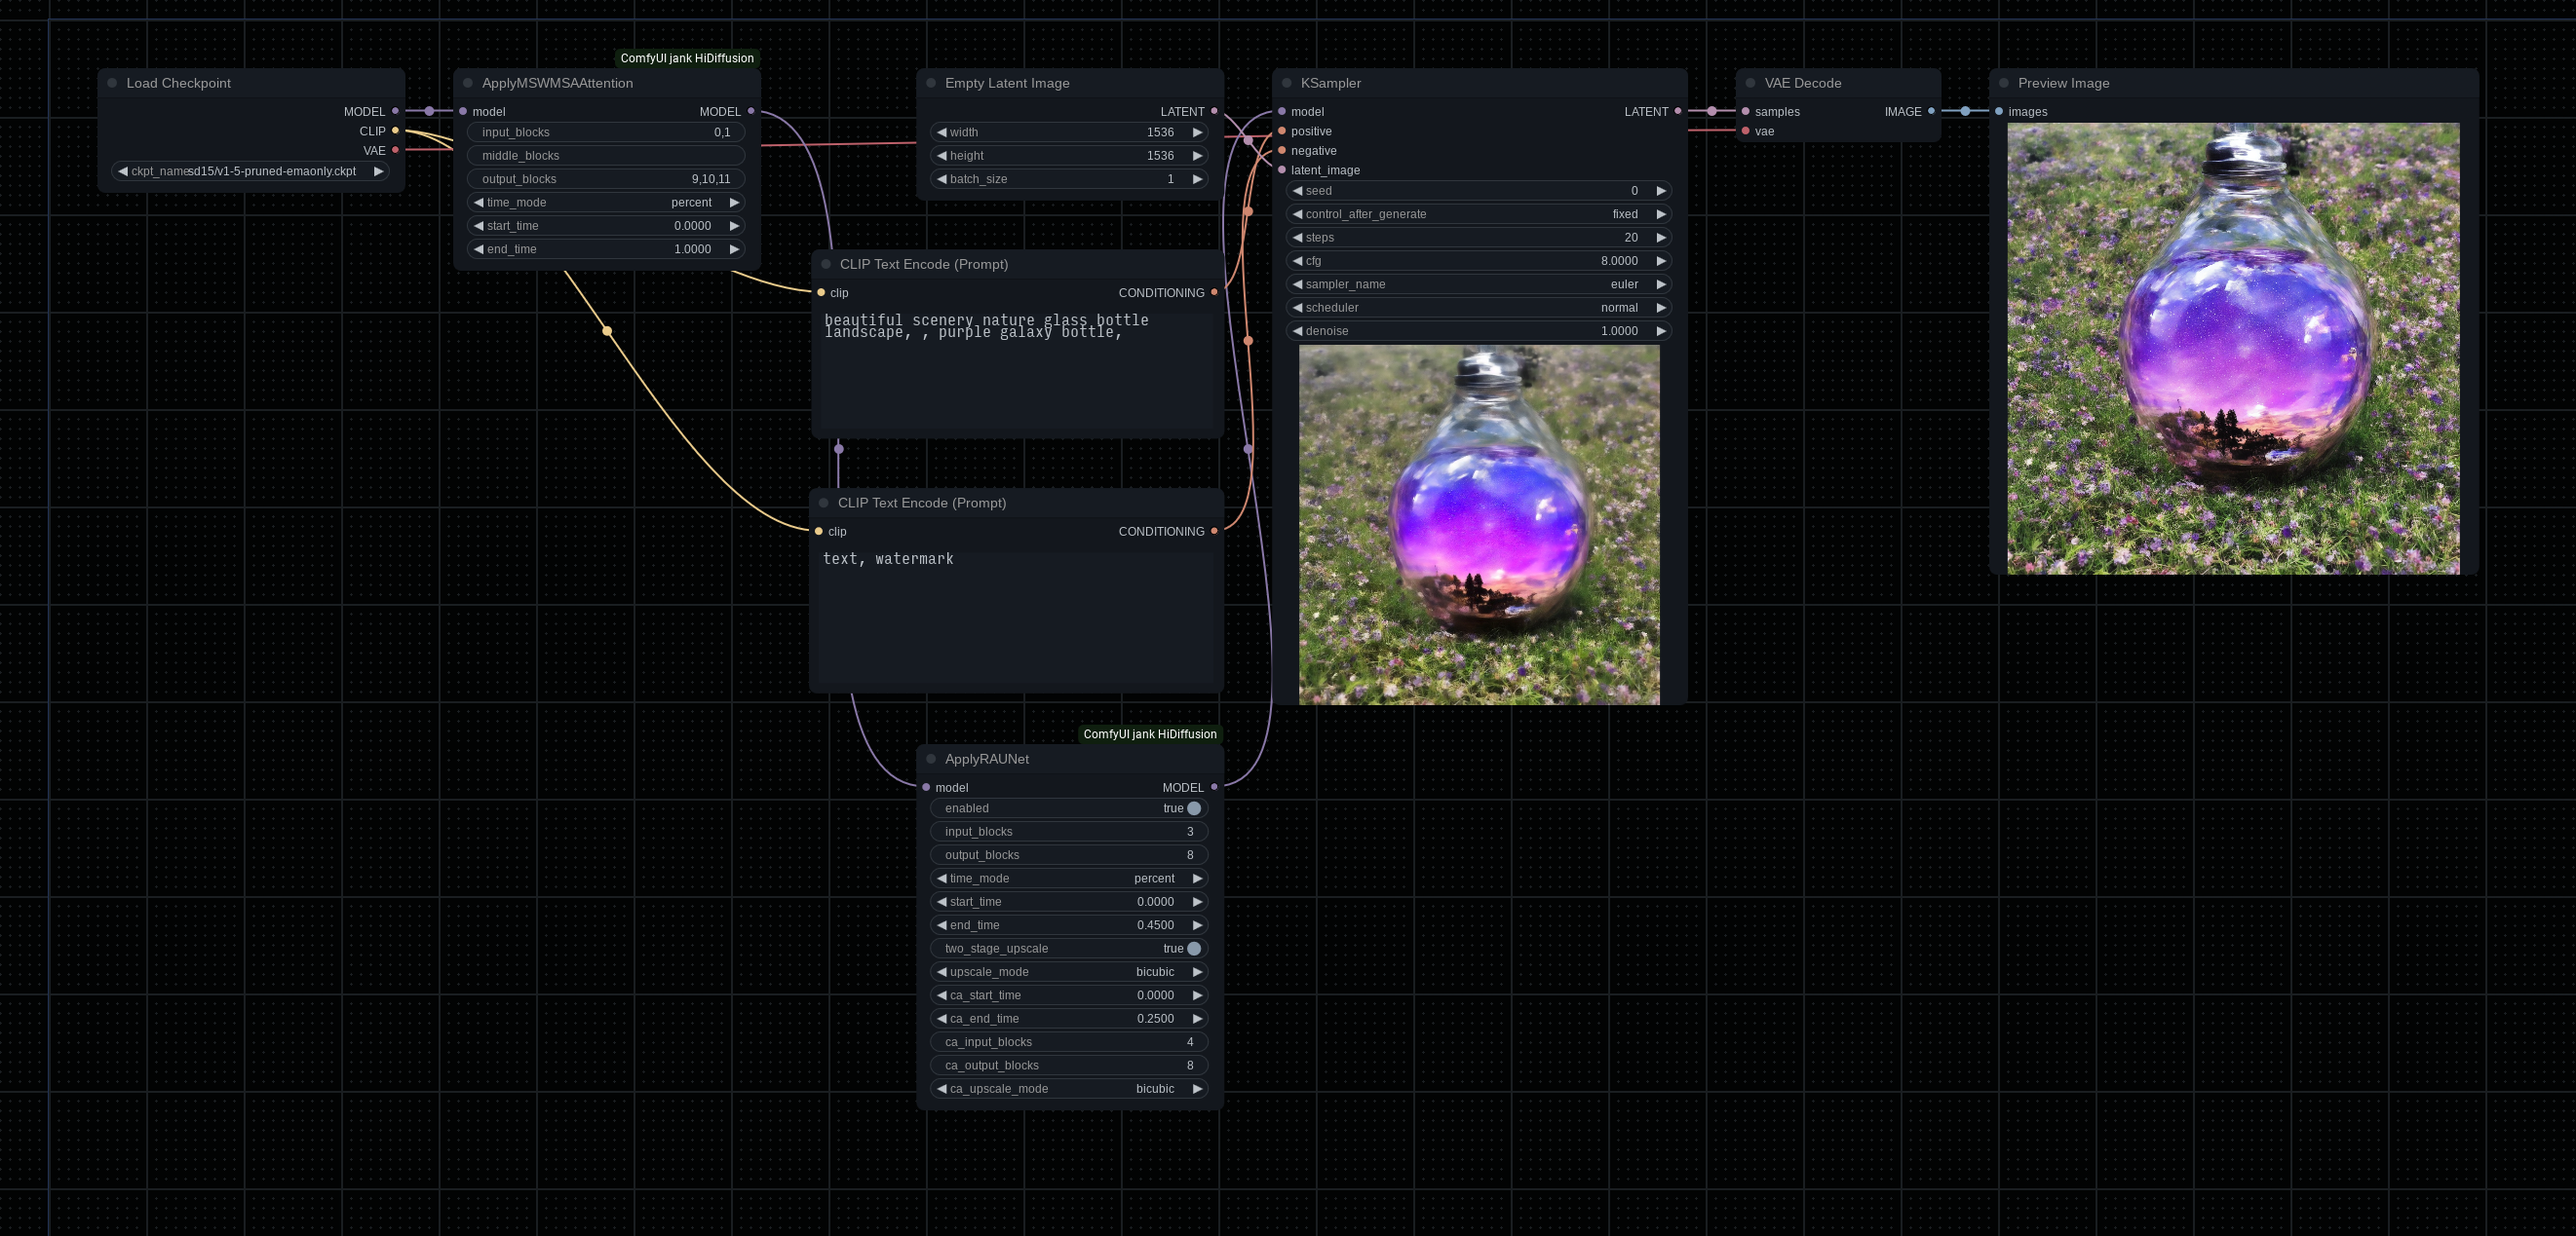
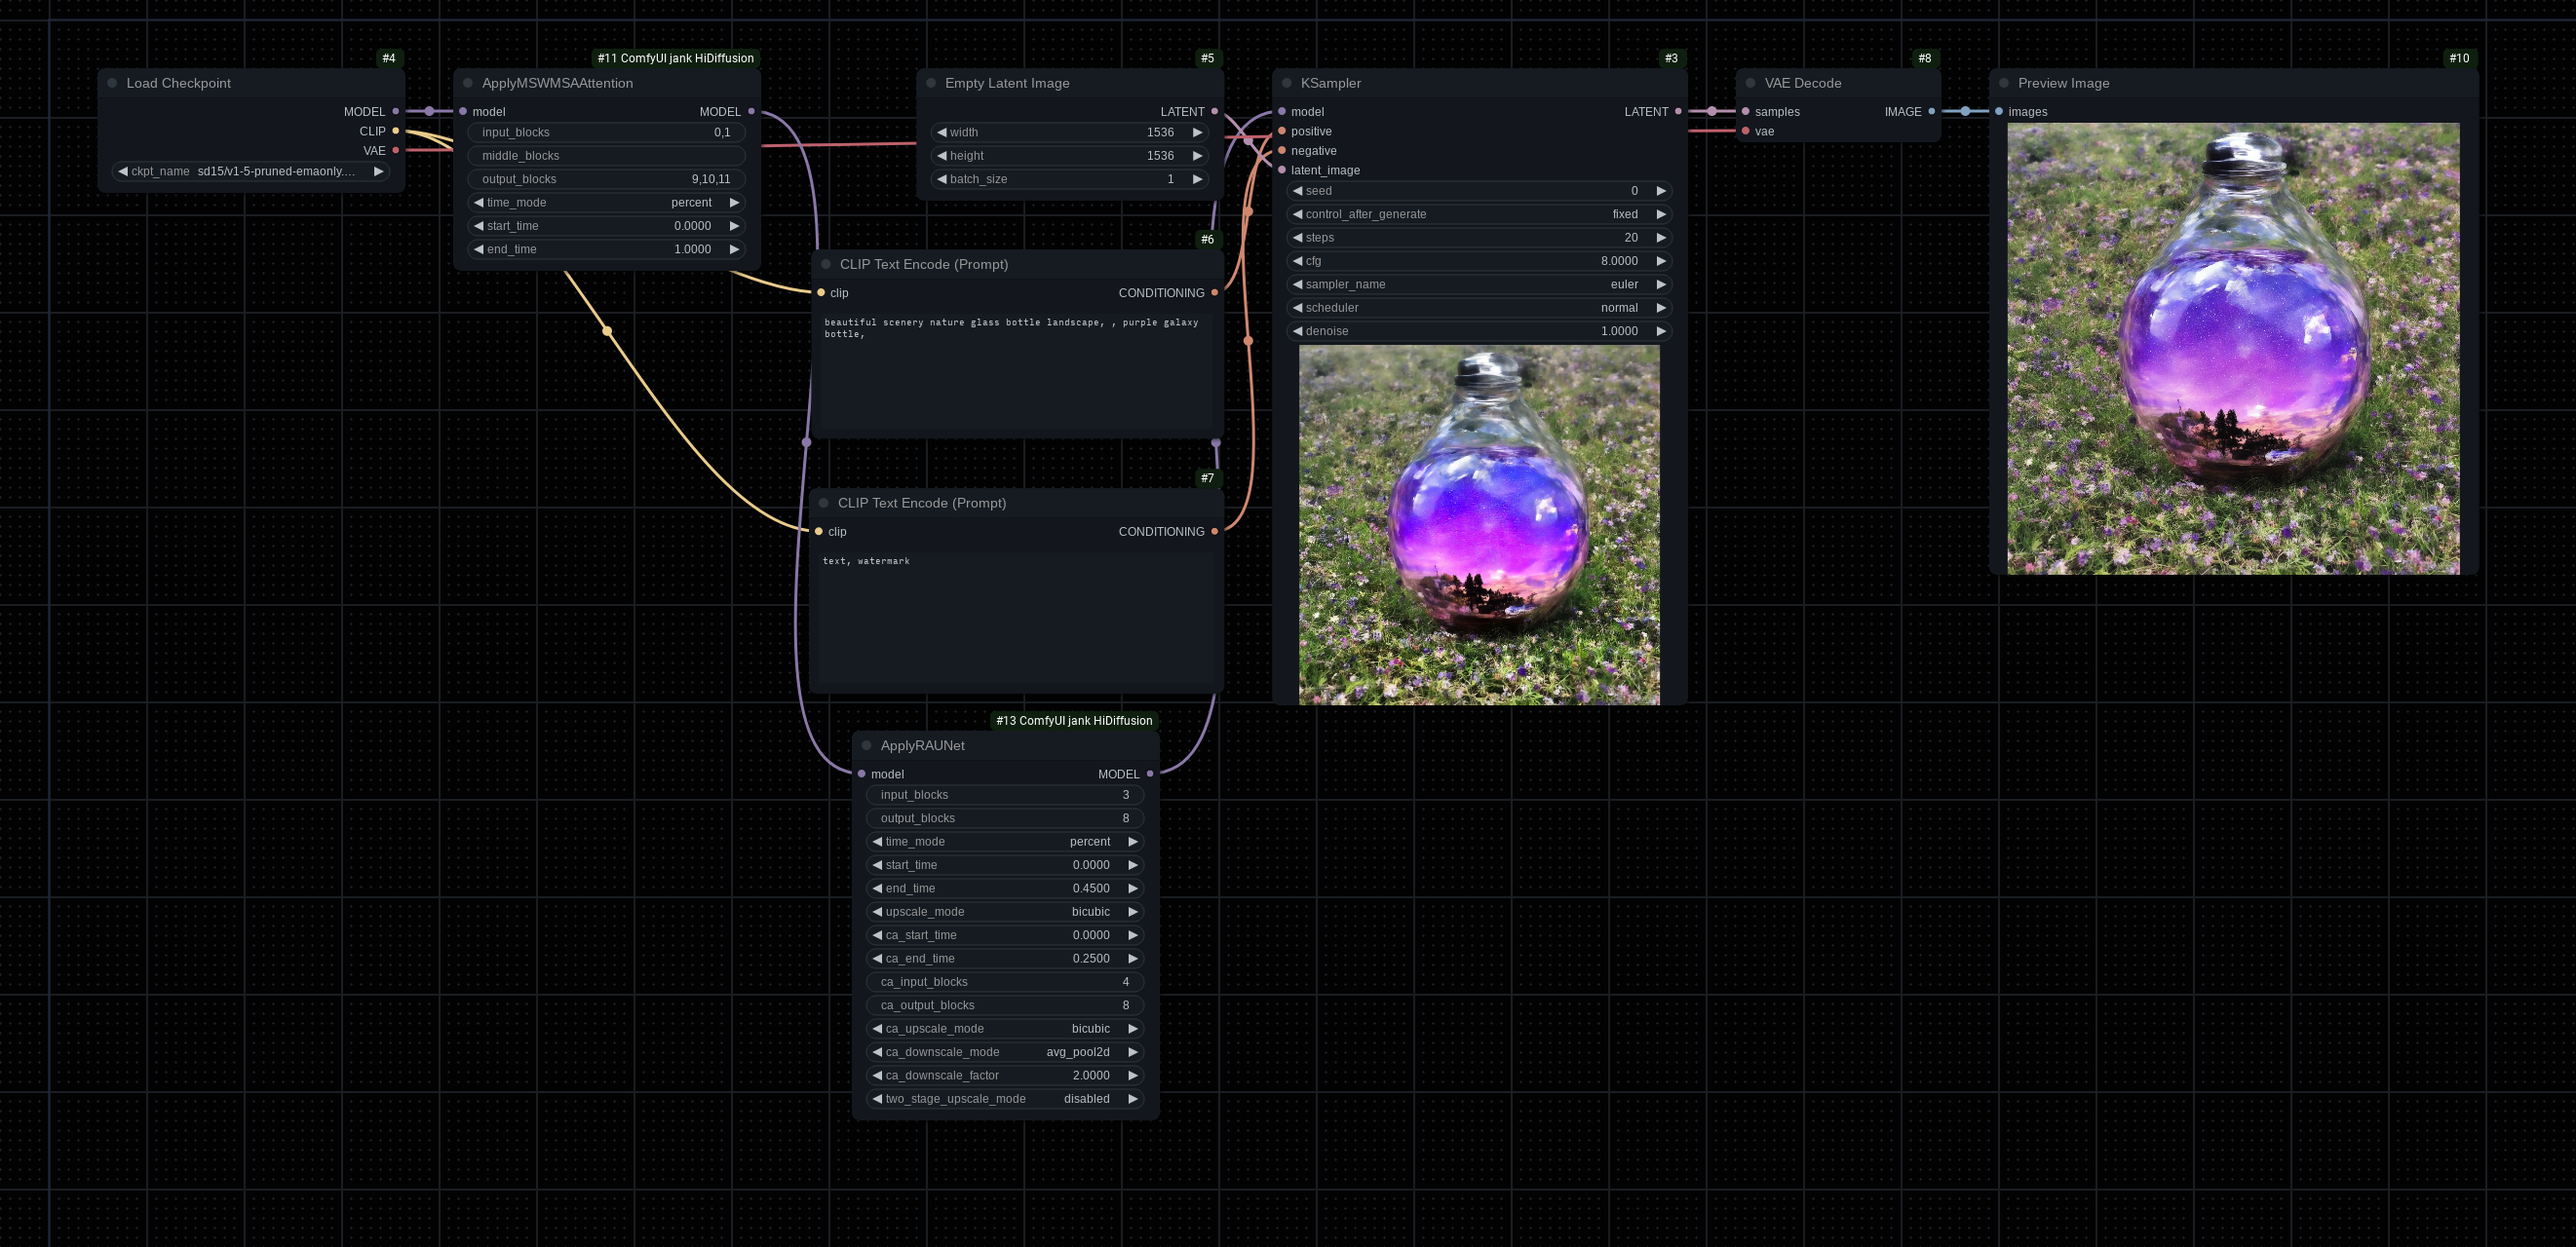
Fix simple nodes
Update docs and examples

Add changelog

diff --git a/py/raunet.py b/py/raunet.py
@@ -304,7 +304,7 @@ class ApplyRAUNet:
         ca_upscale_mode: str,
         ca_downscale_mode: str = "avg_pool2d",
         ca_downscale_factor: float = 2.0,
-        two_stage_upscale_mode: str,
+        two_stage_upscale_mode: str = "disabled",
     ) -> tuple[ModelPatcher]:
         if ca_downscale_mode == "avg_pool2d" and not ca_downscale_factor.is_integer():
             raise ValueError(
@@ -438,13 +438,6 @@ class ApplyRAUNetSimple:
                         *UPSCALE_METHODS,
                     ),
                 ),
-                "two_stage_upscale_mode": (
-                    (
-                        "default",
-                        "disabled",
-                        *UPSCALE_METHODS,
-                    ),
-                ),
             },
         }
 
@@ -457,14 +450,11 @@ class ApplyRAUNetSimple:
         res_mode: str,
         upscale_mode: str,
         ca_upscale_mode: str,
-        two_stage_upscale_mode: str,
     ) -> tuple[ModelPatcher]:
         if upscale_mode == "default":
             upscale_mode = "bicubic"
         if ca_upscale_mode == "default":
             ca_upscale_mode = "bicubic"
-        if two_stage_upscale_mode == "default":
-            two_stage_upscale_mode = "disabled"
         res = res_mode.split(" ", 1)[0]
         if model_type == "SD15":
             blocks = ("3", "8")
@@ -506,15 +496,18 @@ class ApplyRAUNetSimple:
             f"** ApplyRAUNetSimple: Using preset {model_type} {res}: upscale {upscale_mode}, in/out blocks [{prettyblocks}], start/end percent {time_range[0]:.2}/{time_range[1]:.2}  |  CA upscale {ca_upscale_mode},  CA in/out blocks [{prettycablocks}], CA start/end percent {ca_time_range[0]:.2}/{ca_time_range[1]:.2}",
         )
         return ApplyRAUNet.patch(
-            model,
-            *blocks,
-            "percent",
-            *time_range,
-            upscale_mode,
-            *ca_time_range,
-            *ca_blocks,
-            ca_upscale_mode,
-            two_stage_upscale_mode,
+            model=model,
+            input_blocks=blocks[0],
+            output_blocks=blocks[1],
+            time_mode="percent",
+            start_time=time_range[0],
+            end_time=time_range[1],
+            upscale_mode=upscale_mode,
+            ca_start_time=ca_time_range[0],
+            ca_end_time=ca_time_range[1],
+            ca_input_blocks=ca_blocks[0],
+            ca_output_blocks=ca_blocks[1],
+            ca_upscale_mode=ca_upscale_mode,
         )
 
 

diff --git a/py/msw_msa_attention.py b/py/msw_msa_attention.py
@@ -264,7 +264,15 @@ class ApplyMSWMSAAttentionSimple:
         logging.info(
             f"** ApplyMSWMSAAttentionSimple: Using preset {model_type}: in/mid/out blocks [{prettyblocks}], start/end percent {time_range[0]:.2}/{time_range[1]:.2}",
         )
-        return ApplyMSWMSAAttention.patch(model, *blocks, "percent", *time_range)
+        return ApplyMSWMSAAttention.patch(
+            model=model,
+            input_blocks=blocks[0],
+            middle_blocks=blocks[1],
+            output_blocks=blocks[2],
+            time_mode="percent",
+            start_time=time_range[0],
+            end_time=time_range[1],
+        )
 
 
 __all__ = ("ApplyMSWMSAAttention", "ApplyMSWMSAAttentionSimple")

diff --git a/README.md b/README.md
@@ -3,6 +3,8 @@
 Janky experimental implementation of [HiDiffusion](https://github.com/megvii-research/HiDiffusion) for
 [ComfyUI](https://github.com/comfyanonymous/ComfyUI).
 
+See the [changelog](changelog.md) for recent user-visible changes.
+
 ## Description
 
 Read the link above for an official description. The following is just my understanding and may or may not be
@@ -229,7 +231,7 @@ input 3, output 5 and disabling CA (set the `ca_start_time` to 1.0) _or_ setting
 and disabling the upsampler/downsampler patch (set `start_time` to 1.0). I don't recommend leaving both
 enabled at the same time, but feel free to experiment. SDXL seems very sensitive to these settings. Also I don't
 recommend enabling RAUNet at all unless you are generating at a resolution significantly higher than what the
-model supports.
+model supports. Using an ancestral or SDE sampler seems to work best with SDXL and RAUNet.
 
 Why does setting input 2 correspond with output 7? I actually have no idea, I would have expected it to be
 6.

diff --git a/changelog.md b/changelog.md
@@ -1,0 +1,22 @@
+# Changes
+
+Note, only relatively significant changes to user-visible functionality will be included here. Most recent changes at the top.
+
+## 20240813
+
+_Note_: Advanced RAUNet node parameters changed, will break workflows.
+
+_Note_: May (slightly) change seeds.
+
+* RAUNet: Patch backend refactored to work as a normal model patch.
+* RAUNet: You can now set the CA downscale factor in the advanced node (basically works like deep shrink).
+* RAUNet: You can now set the CA downscale mode in the advanced node (previously always was `avg_pool2d`).
+
+## 20240802
+
+_Note_: May change seeds, for previous behavior set two stage upscale mode to `nearest-exact` in the advanced RAUNet node.
+
+_Note_: Advanced RAUNet node parameters changed, will break workflows.
+
+* RAUNet: Fixed issue where two stage upscale setting didn't work properly.
+* RAUNet: Two stage upscale is no longer a toggle and allows choosing the scale method.
